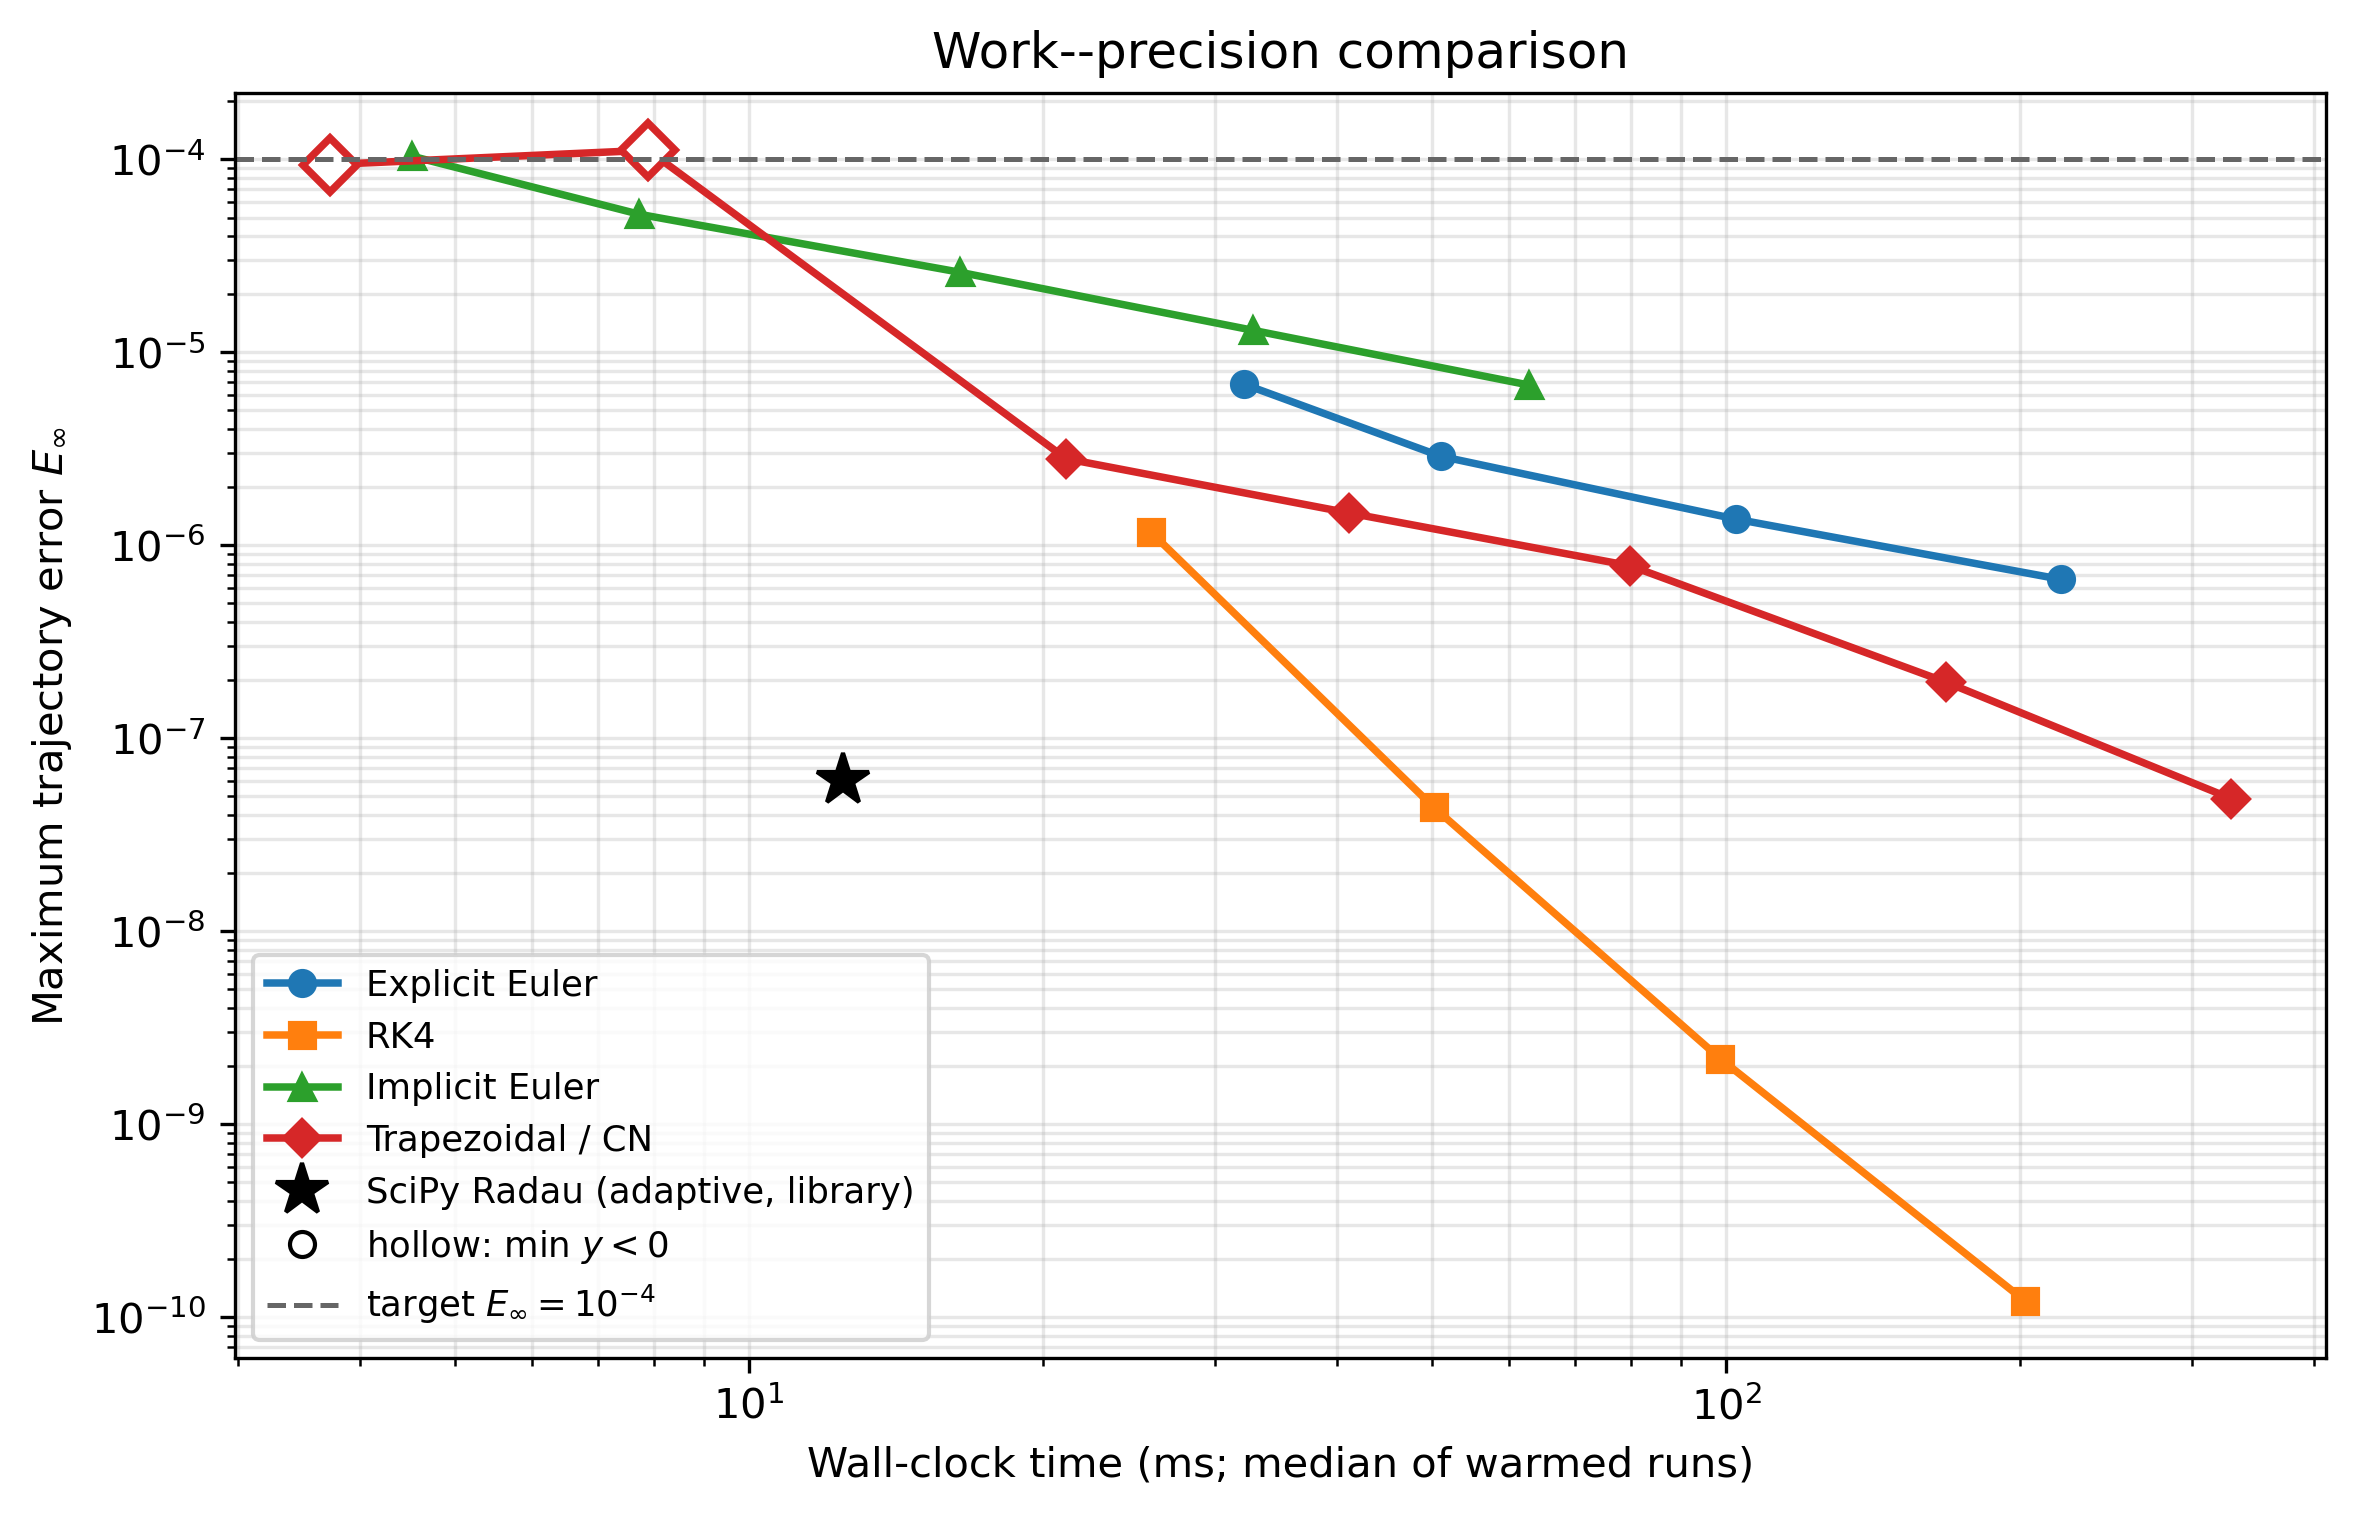
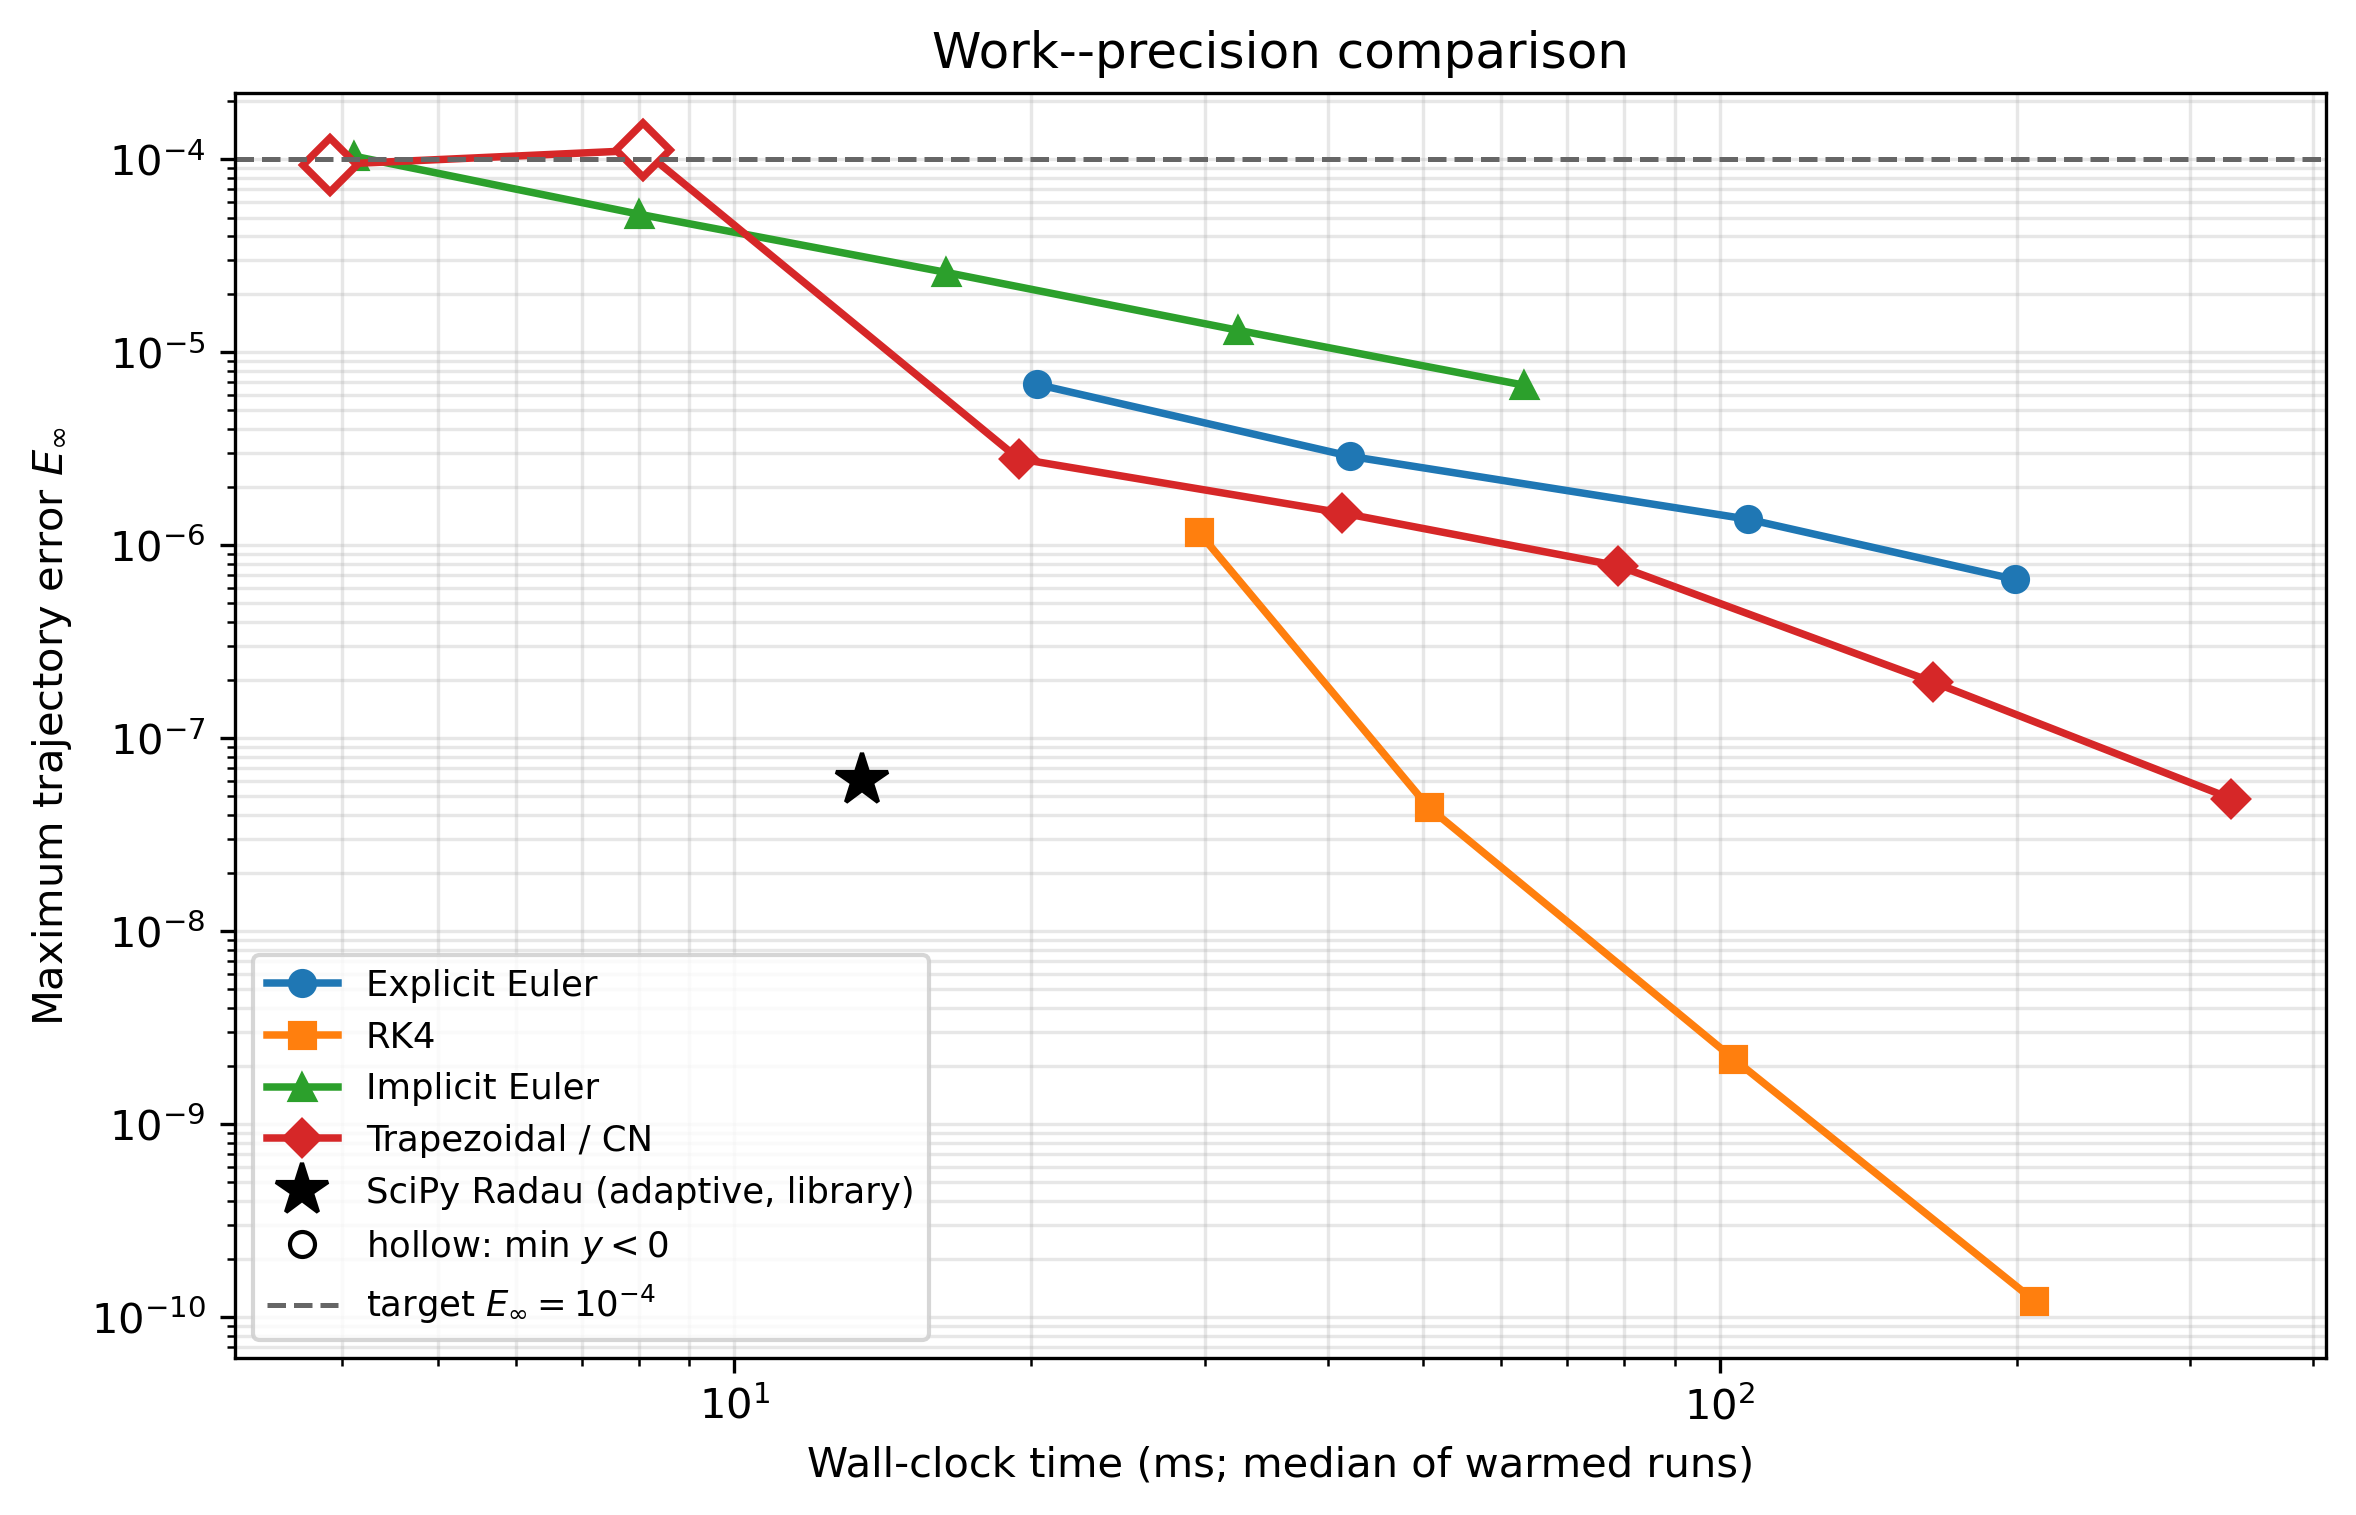
code, figures, tables and generated

diff --git a/code/make_report_tables.py b/code/make_report_tables.py
@@ -77,6 +77,11 @@ def main(root: Path):
     pert = ng.loc["Perturbed predictor"]
     ee_wp = wp[(wp.method == "Explicit Euler") & (np.isclose(wp.h, 5e-4))].iloc[0]
     ie_match = wp[(wp.method == "Implicit Euler") & (np.isclose(wp.h, 6.5e-4))].iloc[0]
+
+    
+    rk_wp   = wp[(wp.method == "RK4") & (np.isclose(wp.h, 8e-4))].iloc[0]
+    ee_fine = wp[(wp.method == "Explicit Euler") & (np.isclose(wp.h, 1.25e-4))].iloc[0]
+
     ad_ok = ad[ad.status == "completed"]
     ad_fail = ad[ad.status != "completed"]
     lines = ["% Auto-generated by code/make_report_tables.py. Do not hand-edit.\n"]
@@ -105,6 +110,18 @@ def main(root: Path):
         macro("GuessPertE", f"{float(pert['E_inf']):.2f}"),
         macro("GuessPertNeg", f"{int(pert['negative_count'])}"),
         macro("EEOverTarget", f"{1e-4 / float(ee_wp['E_inf']):.0f}"),
+
+        macro("EEBestE",      sci_plain(ee_wp["E_inf"], 2)),
+        macro("EEWork",       f"{int(ee_wp['work_count'])}"),
+        macro("RKBestE",      sci_plain(rk_wp["E_inf"], 2)),
+        macro("RKWork",       f"{int(rk_wp['work_count'])}"),
+        macro("RKErrGain",    f"{float(ee_wp['E_inf']) / float(rk_wp['E_inf']):.0f}"),
+        macro("RKOverTarget", f"{1e-4 / float(rk_wp['E_inf']):.0f}"),
+        macro("RKStepOverEE", f"{8e-4 / hemp:.2f}"),
+        macro("EEFineWork",   f"{int(ee_fine['work_count'])}"),
+        macro("RKSpeedup",    f"{float(ee_fine['wall_clock_time']) / float(rk_wp['wall_clock_time']):.1f}"),
+
+
         macro("MatchRatio", f"{float(ie_match['wall_clock_time']) / float(ee_wp['wall_clock_time']):.1f}"),
         macro("MatchStepsIE", f"{int(ie_match['steps'])}"),
         macro("LibE", sci_plain(lib["E_inf"], 2)),
@@ -198,9 +215,9 @@ def main(root: Path):
 \toprule
 Check & Compared at & Discrepancy\\
 \midrule
-Radau, tolerances tightened by $100$ & 201 output times & {sci_tex(v['Radau_100x_refinement_max_L2'])}\\
+Radau, 100 * looser & 201 output times & {sci_tex(v['Radau_100x_refinement_max_L2'])}\\
 Radau vs.\ BDF (same tolerances) & 201 output times & {sci_tex(v['Radau_vs_BDF_max_L2'])}\\
-Radau, tolerances tightened by $100$ & ${n_pts // 1000}{{,}}{n_pts % 1000:03d}$ fine-grid points (dense output) & {sci_tex(v['Radau_100x_refinement_dense_max_L2'])}\\
+Radau, 100 * looser & ${n_pts // 1000}{{,}}{n_pts % 1000:03d}$ fine-grid points (dense output) & {sci_tex(v['Radau_100x_refinement_dense_max_L2'])}\\
 Radau vs.\ BDF & ${n_pts // 1000}{{,}}{n_pts % 1000:03d}$ fine-grid points (dense output) & {sci_tex(v['Radau_vs_BDF_dense_max_L2'])}\\
 Invariant defect $\max|y_1+y_2+y_3-1|$ & 201 output times & {sci_tex(v['reference_max_mass_defect'])}\\
 \bottomrule

diff --git a/code/run_all.py b/code/run_all.py
@@ -1,18 +1,6 @@
 #!/usr/bin/env python3
-"""One-command reproducibility driver for Sections 3.5, 4, 5 and 6.1.
-
-Default behaviour:
-  1. recompute every numerical experiment from the Robertson ODE;
-  2. regenerate all Section-4 and Section-5 figures (incl. the stability regions);
-  3. regenerate LaTeX tables/macros from those exact CSV files;
-  4. optionally compile main.tex when pdflatex is available.
-
-Use --figures-only only when you intentionally want to reuse existing CSV data.
-"""
 from __future__ import annotations
 import argparse
-import shutil
-import subprocess
 import sys
 import time
 from pathlib import Path
@@ -22,18 +10,13 @@ CODE = ROOT / "code"
 sys.path.insert(0, str(CODE))
 
 
-def run_cmd(cmd, cwd=ROOT):
-    print("$", " ".join(map(str, cmd)))
-    subprocess.run(list(map(str, cmd)), cwd=cwd, check=True)
-
-
 def main():
     parser = argparse.ArgumentParser()
     parser.add_argument("--figures-only", action="store_true", help="reuse existing CSV data; do not rerun solvers")
-    parser.add_argument("--no-pdf", action="store_true", help="skip local pdflatex compilation")
     args = parser.parse_args()
 
     t0 = time.perf_counter()
+
     if not args.figures_only:
         from experiments import main as run_experiments
         run_experiments(ROOT)
@@ -44,27 +27,17 @@ def main():
     from qssa_analysis import main as make_qssa
     from make_figures import main as make_figures
     from make_report_tables import main as make_tables
-    make_stability(ROOT)      # stability regions + numeric checks of Section 4.1 (needed by make_figures)
-    make_qssa(ROOT)           # QSSA / singular-perturbation analysis of Section 6.1 (needed by make_report_tables)
+
+    make_stability(ROOT)      # stability regions + numeric checks of Section 4.1
+    make_qssa(ROOT)           # QSSA / singular-perturbation analysis of Section 6.1
     make_figures(ROOT)
     make_tables(ROOT)
-
-    if not args.no_pdf:
-        pdflatex = shutil.which("pdflatex")
-        if pdflatex:
-            print("Compiling main.tex...")
-            for _ in range(2):
-                run_cmd([pdflatex, "-interaction=nonstopmode", "-halt-on-error", "main.tex"])
-        else:
-            print("pdflatex not found; skipping local PDF compilation. Upload the folder to Overleaf instead.")
 
     dt = time.perf_counter() - t0
     print(f"\nDONE in {dt:.1f} s")
     print(f"Data:    {ROOT/'data'}")
     print(f"Figures: {ROOT/'figures'}")
-    print(f"Report:  {ROOT/'main.tex'}")
-    if (ROOT/'main.pdf').exists():
-        print(f"PDF:     {ROOT/'main.pdf'}")
+
 
 if __name__ == "__main__":
     main()

diff --git a/code/make_figures.py b/code/make_figures.py
@@ -149,7 +149,7 @@ def main(root: Path):
     kout = pd.read_csv(data / "kappa_output_grid.csv")
     fig, ax = plt.subplots(figsize=(7.4, 4.4))
     ax.loglog(js.t, js.kappa_V, lw=1.6, color="C1", label=r"$\kappa(V)$, 1000-point grid")
-    ax.loglog(kout.t, kout.kappa_V, ".", ms=4, color="k", label=r"201 output times")
+    ax.loglog(kout.t, kout.kappa_V, ".", ms=4, color="k", label=r"200 output times")
     ax.axhline(1.0, ls="--", color="0.4", lw=1.0, label=r"$\kappa(V)=1$ (normal matrix)")
     ax.axvline(t_c, ls=":", color="0.4", lw=1.2)
     ax.set_xlabel("Time (log scale)"); ax.set_ylabel(r"$\kappa(V(t))=\|V\|_2\|V^{-1}\|_2$")
